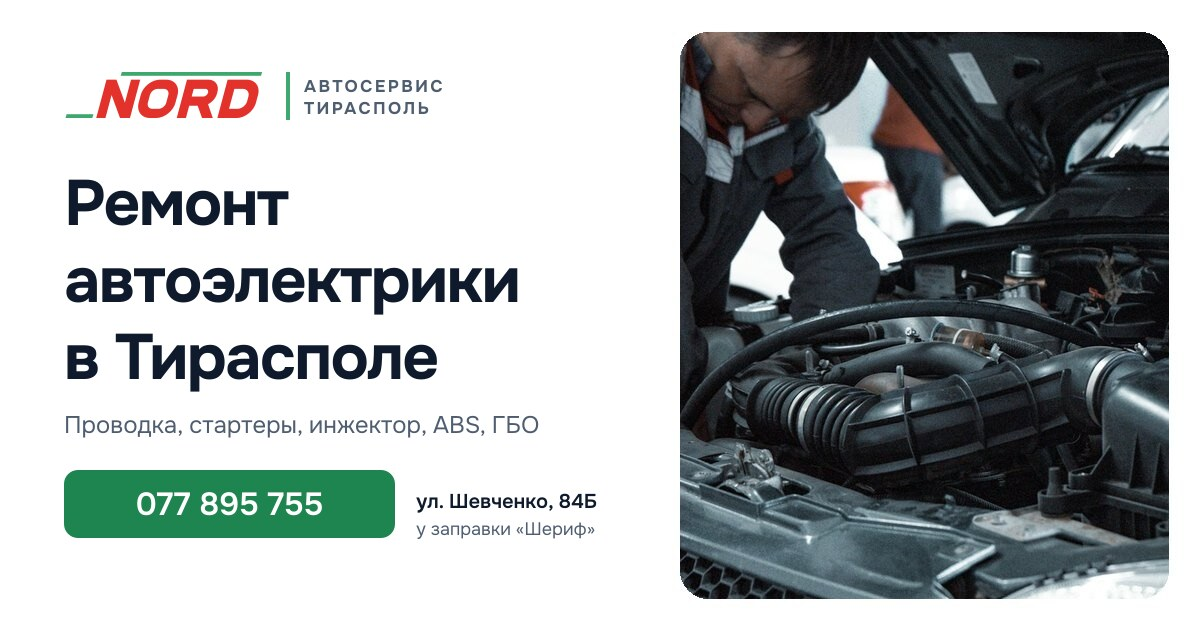
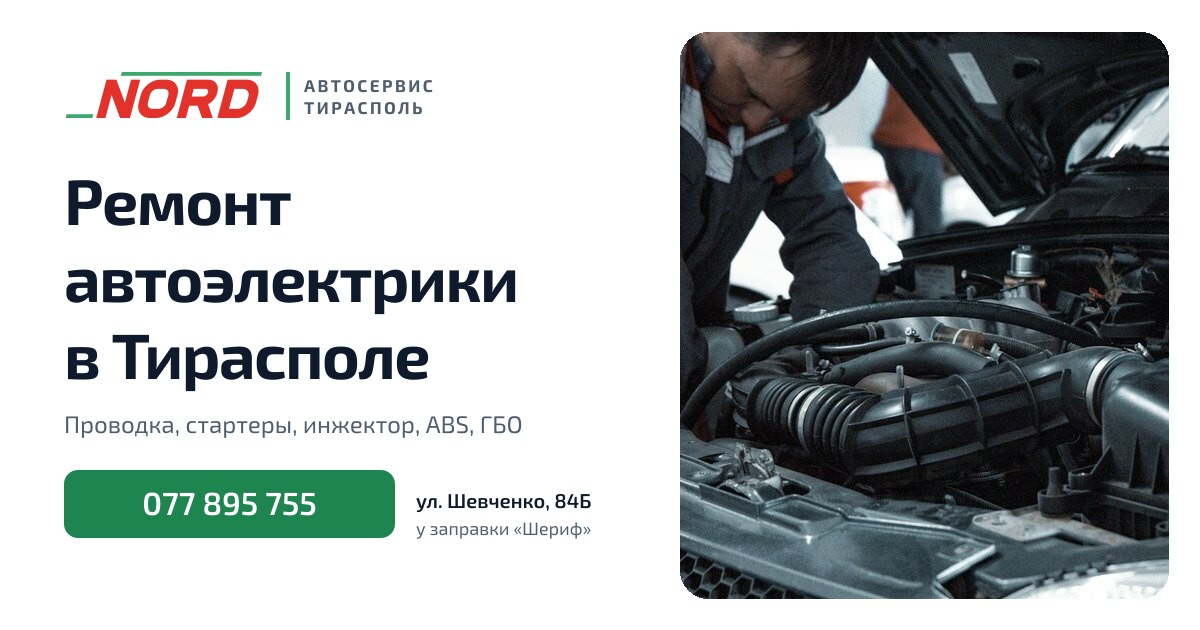
Шрифт сайта Exo 2 вместо Onest
Квадратно-скруглённые формы Exo 2 перекликаются с логотипом NORD.
Обновлена картинка для соцсетей (og.jpg).

Claude-Session: https://claude.ai/code/session_01Q2rrHcnLDN6NGA9wsdCPYb

diff --git a/index.html b/index.html
@@ -54,7 +54,7 @@
 
   <link rel="preconnect" href="https://fonts.googleapis.com">
   <link rel="preconnect" href="https://fonts.gstatic.com" crossorigin>
-  <link rel="stylesheet" href="https://fonts.googleapis.com/css2?family=Onest:wght@400;500;600;700;800&display=swap">
+  <link rel="stylesheet" href="https://fonts.googleapis.com/css2?family=Exo+2:wght@400;500;600;700;800&display=swap">
   <link rel="preload" href="img/hero.jpg" as="image" fetchpriority="high">
   <link rel="stylesheet" href="styles.css?v=13">
 

diff --git a/electric.html b/electric.html
@@ -22,7 +22,7 @@
   <meta name="theme-color" content="#ffffff">
   <link rel="preconnect" href="https://fonts.googleapis.com">
   <link rel="preconnect" href="https://fonts.gstatic.com" crossorigin>
-  <link rel="stylesheet" href="https://fonts.googleapis.com/css2?family=Onest:wght@400;500;600;700;800&display=swap">
+  <link rel="stylesheet" href="https://fonts.googleapis.com/css2?family=Exo+2:wght@400;500;600;700;800&display=swap">
   <link rel="stylesheet" href="styles.css?v=13">
 </head>
 <body>

diff --git a/injector.html b/injector.html
@@ -22,7 +22,7 @@
   <meta name="theme-color" content="#ffffff">
   <link rel="preconnect" href="https://fonts.googleapis.com">
   <link rel="preconnect" href="https://fonts.gstatic.com" crossorigin>
-  <link rel="stylesheet" href="https://fonts.googleapis.com/css2?family=Onest:wght@400;500;600;700;800&display=swap">
+  <link rel="stylesheet" href="https://fonts.googleapis.com/css2?family=Exo+2:wght@400;500;600;700;800&display=swap">
   <link rel="stylesheet" href="styles.css?v=13">
 </head>
 <body>

diff --git a/styles.css b/styles.css
@@ -17,7 +17,7 @@
   --r-md: 16px;   /* блоки */
   --r-lg: 24px;   /* фото */
 
-  --font: "Onest", system-ui, -apple-system, "Segoe UI", Roboto, Arial, sans-serif;
+  --font: "Exo 2", system-ui, -apple-system, "Segoe UI", Roboto, Arial, sans-serif;
   --wrap: 1200px;
   --ease-out: cubic-bezier(.16, 1, .3, 1);
   --ease-back: cubic-bezier(.34, 1.56, .64, 1);
